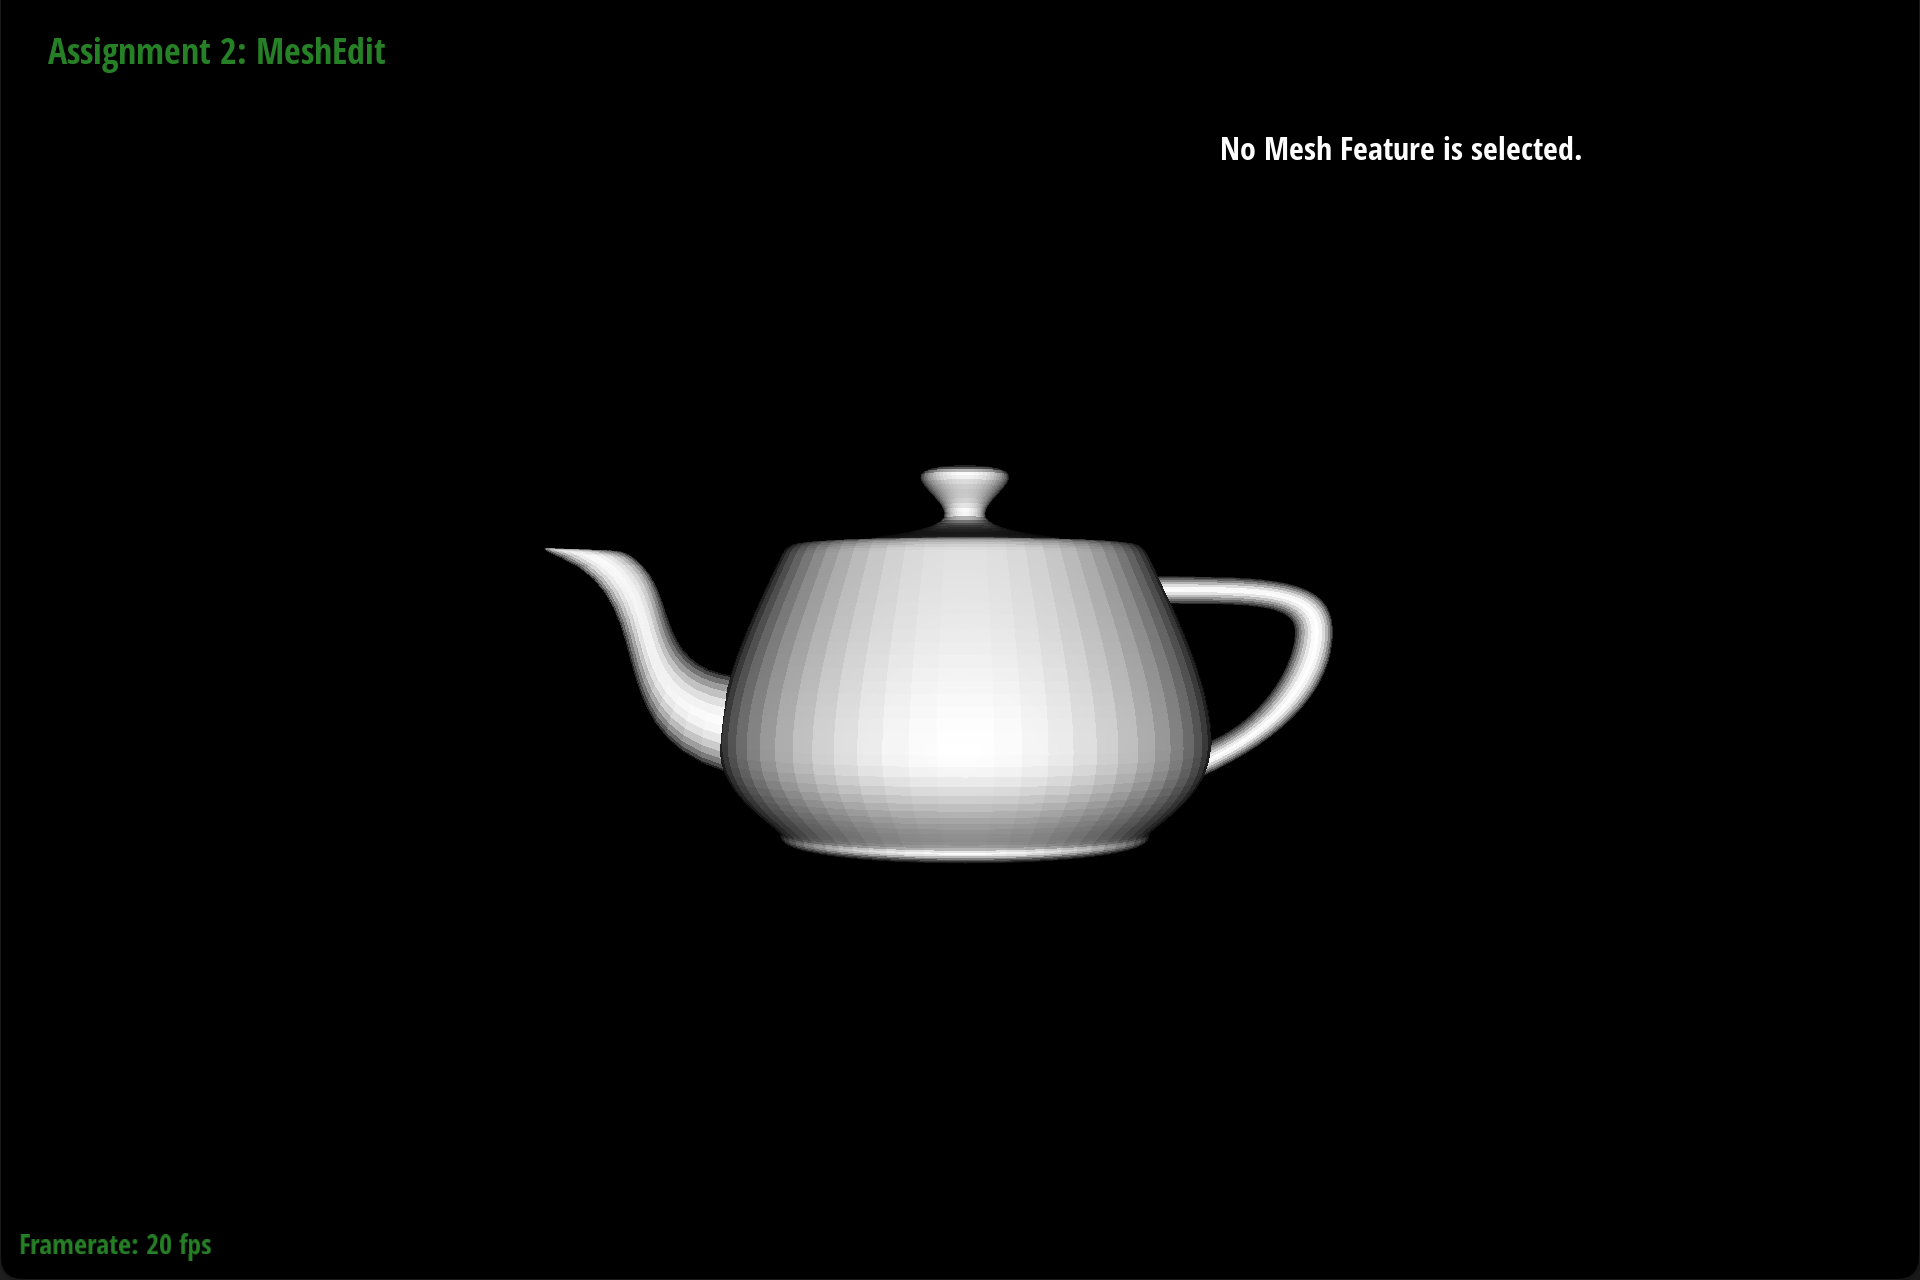
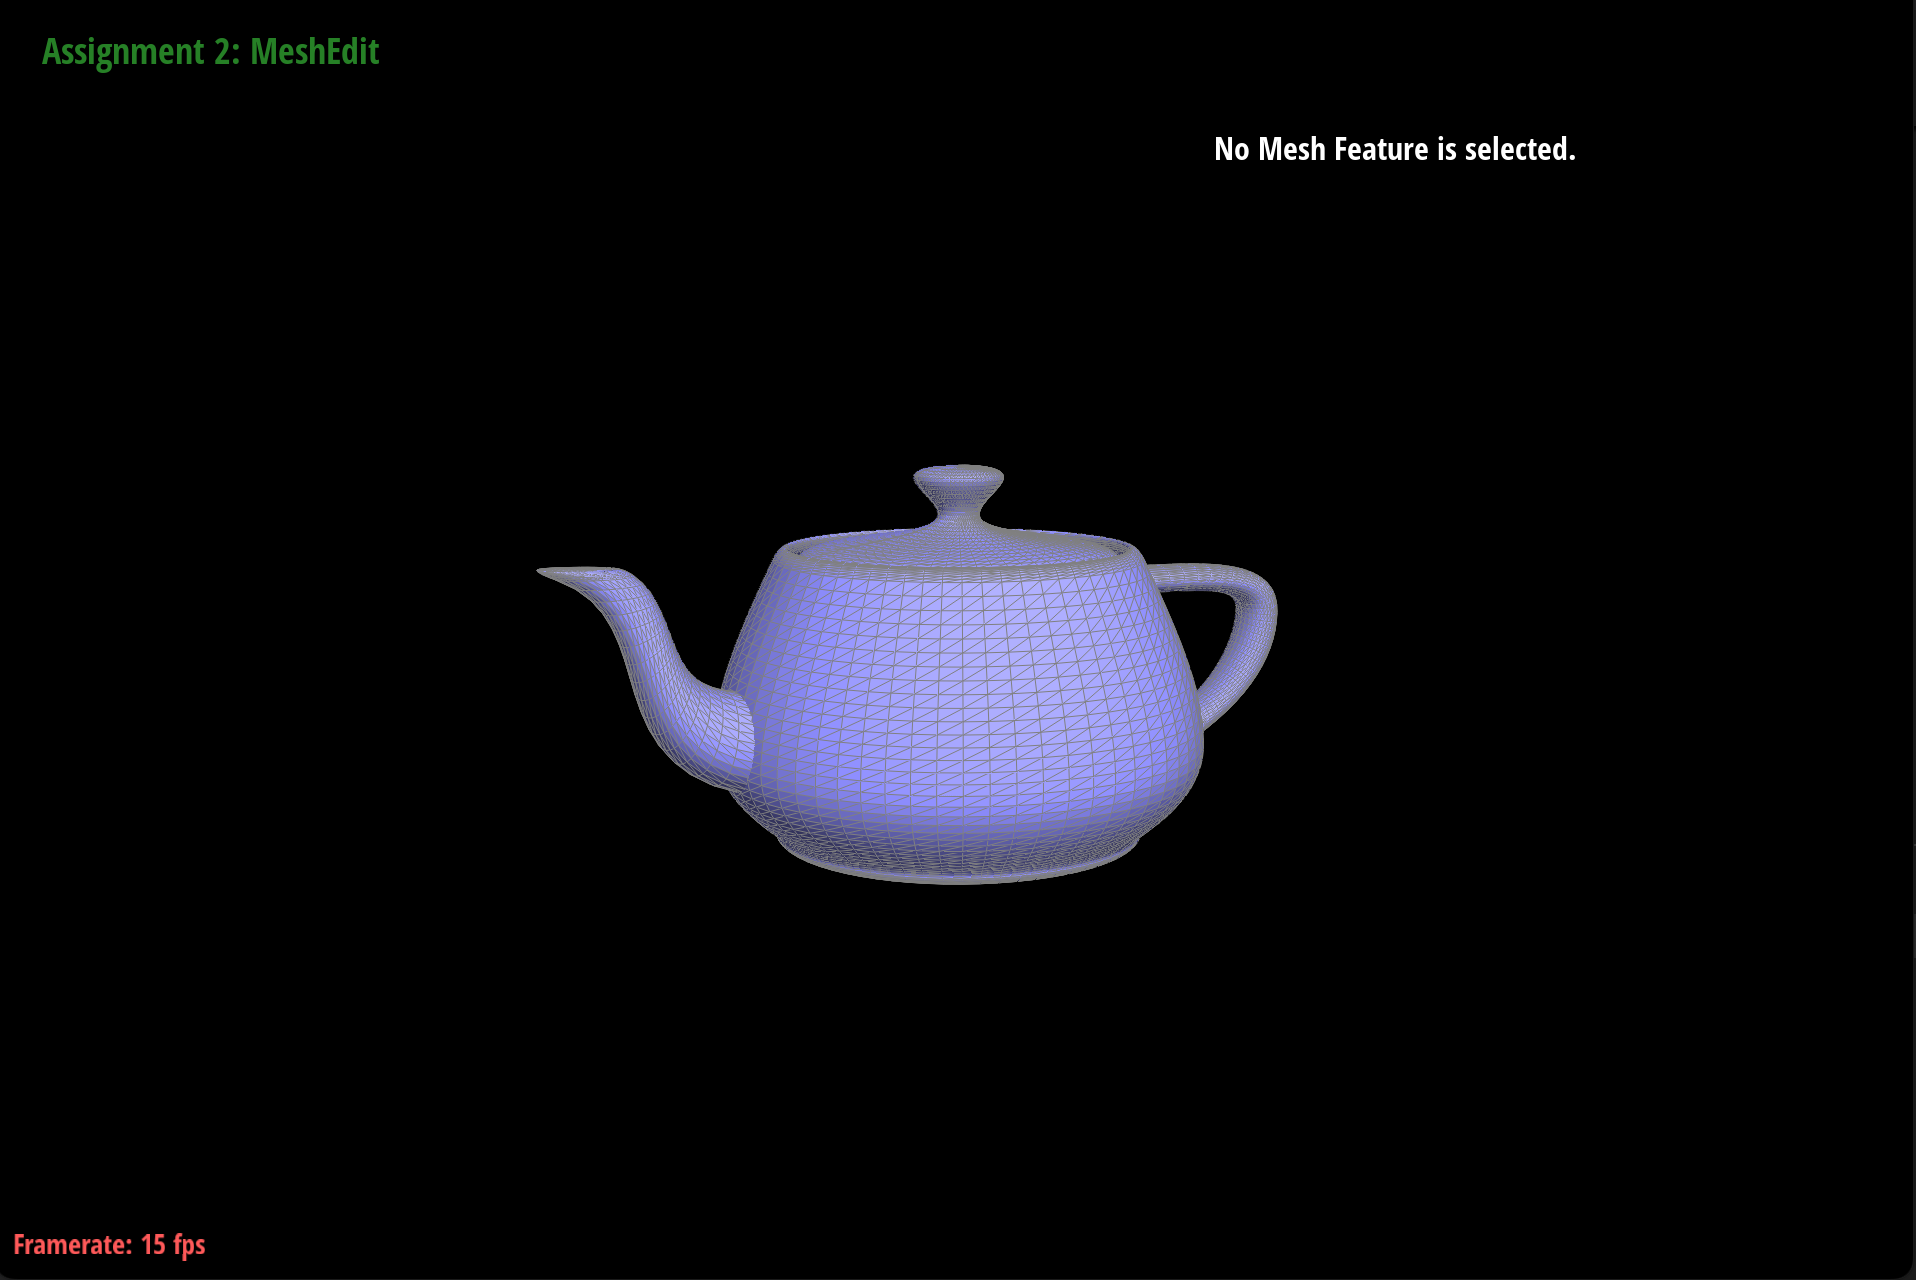
adding writeup for task 2

diff --git a/hw2/index.html b/hw2/index.html
@@ -103,7 +103,17 @@
 		</div>
 
 		<h3>Part 2: Bezier surfaces with separable 1D de Casteljau</h3>
-		Lorem ipsum dolor sit amet, consectetur adipiscing elit, sed do eiusmod tempor incididunt ut labore et dolore magna aliqua. Ut enim ad minim veniam, quis nostrud exercitation ullamco laboris nisi ut aliquip ex ea commodo consequat. Duis aute irure dolor in reprehenderit in voluptate velit esse cillum dolore eu fugiat nulla pariatur. Excepteur sint occaecat cupidatat non proident, sunt in culpa qui officia deserunt mollit anim id est laborum.
+		de Casteljau's algorithm extends to Bezier surfaces by initially treating each row of control points as a separate Bezier curve parameterized by the same value u, 
+		then treating the resulting points as a Bezier curve parameterized by a second value v. de Casteljau's, when run on these points, returns a point P lying on the Bezier surface given the two parameters u and v.
+
+		I implemented de Casteljau's to evaluate Bezier surfaces by splitting de Casteljau's algorithm across three methods, two of which are helpers.
+		One method computes a recursive step of de Casteljau's algorithm on a vector of points, the second continually calls the first until the final point is obtained, and the third "overarching" method handles executing de Casteljau's with different values for the parameter t (i.e. u and v).
+		The third method does so by first calling de Casteljau's on each row of the input matrix of control points with parameter u, then makes a final run of de Casteljau's on the vector formed by the results of the previous step with parameter v.
+
+		<figure>
+			<img src="task2.png" alt="Teapot" style="width:50%"/>
+			<figcaption>bez/teapot.bez</figcaption>
+		</figure>
 
 		<h2>Section II: Triangle Meshes and Half-Edge Data Structure</h2>
 
